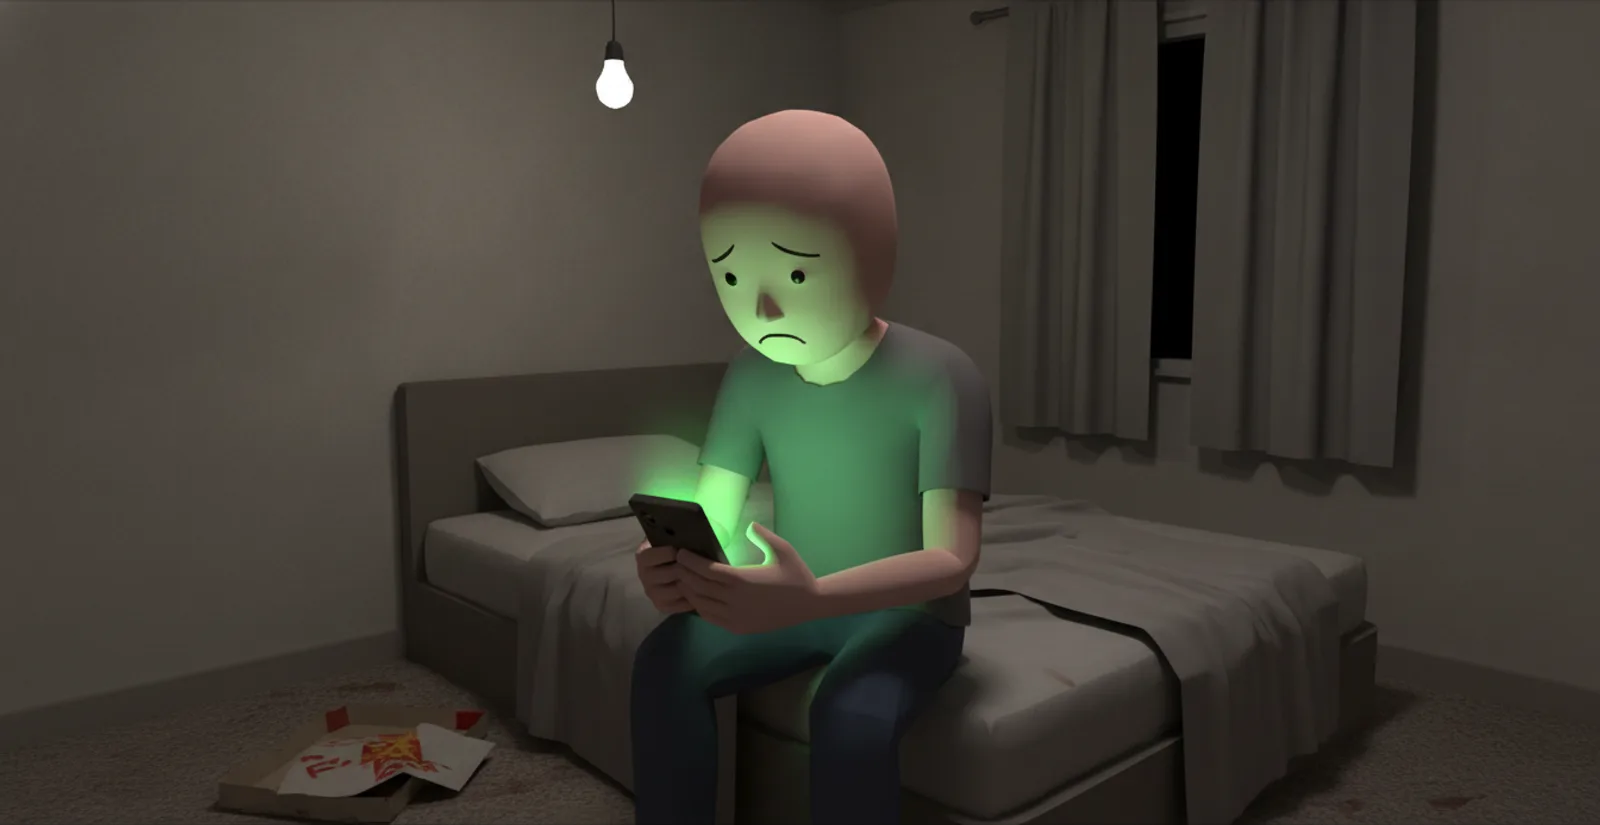
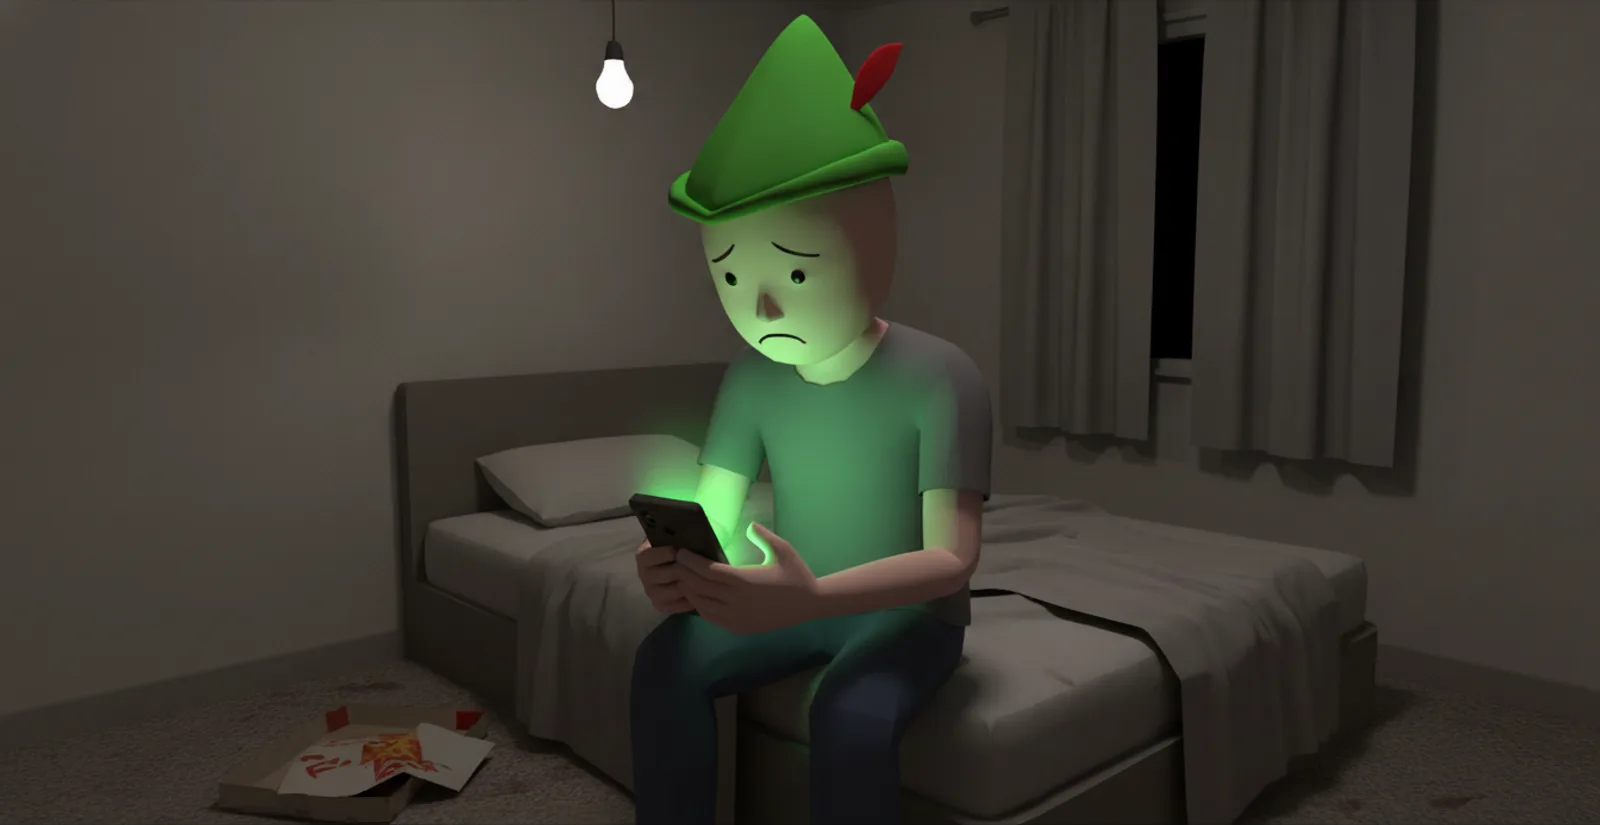
robin hood cap on every frame, sherwood tile, the app's confetti

Changed region(s): [[0.4062, 0.0, 0.5938, 0.2727]]

diff --git a/index.html b/index.html
@@ -38,6 +38,7 @@ button{font:inherit;color:inherit;background:none;border:0;cursor:pointer}
 .room .scan{position:absolute;inset:0;pointer-events:none;background:repeating-linear-gradient(rgba(0,0,0,.2) 0 1px,transparent 1px 3px);opacity:.45}
 .room .vig{position:absolute;inset:0;pointer-events:none;background:radial-gradient(ellipse at 45% 50%,transparent 45%,rgba(10,10,13,.85) 100%)}
 .room .red{position:absolute;inset:0;pointer-events:none;background:radial-gradient(ellipse at 50% 50%,transparent 40%,rgba(255,40,80,.55) 100%);opacity:calc(var(--pain) * .9)}
+.confetti{position:fixed;inset:0;z-index:44;pointer-events:none}
 .freeze{position:fixed;inset:0;z-index:40;pointer-events:none;background:rgba(10,10,13,.55);display:grid;place-items:center;opacity:0;transition:opacity .15s}
 .freeze.on{opacity:1}
 .freeze i{width:34px;height:34px;border:3px solid rgba(255,255,255,.2);border-top-color:var(--white);border-radius:50%;animation:spin .8s linear infinite}
@@ -123,6 +124,7 @@ button{font:inherit;color:inherit;background:none;border:0;cursor:pointer}
 
 .hist{display:grid;grid-template-columns:repeat(2,1fr);gap:8px;padding:6px 18px 18px}
 .hist .h{position:relative;overflow:hidden;border-radius:14px;border:1px solid var(--line);aspect-ratio:16/10;cursor:pointer;background:#000}
+.hist .h.wide{grid-column:1/-1;aspect-ratio:16/8}
 .hist .h img{width:100%;height:100%;object-fit:cover;transition:transform .6s ease}
 .hist .h:hover img{transform:scale(1.05)}
 .hist .h span{position:absolute;left:10px;right:10px;bottom:9px;font-size:11.5px;font-weight:500;line-height:1.3;text-shadow:0 1px 4px rgba(0,0,0,.9)}
@@ -208,6 +210,7 @@ button{font:inherit;color:inherit;background:none;border:0;cursor:pointer}
   <div class="glowG"></div><div class="glowR"></div><div class="scan"></div><div class="vig"></div><div class="red"></div>
 </div>
 <div class="freeze" id="freeze"><i></i></div>
+<canvas class="confetti" id="confetti"></canvas>
 <div class="toasts" id="toasts"></div>
 
 <div class="wrap">
@@ -215,8 +218,8 @@ button{font:inherit;color:inherit;background:none;border:0;cursor:pointer}
     <div class="brand"><img src="assets/avatar.webp" alt="" /><span data-name>Pink Wojak</span></div>
     <div class="mark">
       <h1 class="glitch" data-t="PINK WOJAK">PINK<br /><em>WOJAK</em></h1>
-      <p>Born on a phone screen in January 2021, same portfolio, new chain</p>
-      <div class="year"><i></i>Account open since 2021 · never closed</div>
+      <p>He wears the hat, the hat did not help, same portfolio since January 2021</p>
+      <div class="year"><i></i>Sherwood branch · account open since 2021</div>
     </div>
     <div class="foot">Robinhood Chain · Pons · every position red, one green</div>
   </aside>
@@ -254,6 +257,7 @@ button{font:inherit;color:inherit;background:none;border:0;cursor:pointer}
 
     <div class="sec">History <span>2021 → now</span></div>
     <div class="hist">
+      <div class="h wide" data-src="assets/s6.webp" data-cap="Sherwood, he took from the rich and gave to the poor, he was the poor"><img src="assets/s6.webp" alt="" /><small>SHERWOOD</small><span>Took from the rich, gave to the poor, he was the poor</span></div>
       <div class="h" data-src="assets/s2.webp" data-cap="January 2021, he bought the top from the kitchen"><img src="assets/s2.webp" alt="" /><small>JAN 2021</small><span>He bought the top from the kitchen</span></div>
       <div class="h" data-src="assets/s3.webp" data-cap="The buy button turned grey, the sell button stayed green"><img src="assets/s3.webp" alt="" /><small>JAN 28</small><span>The buy button turned grey</span></div>
       <div class="h" data-src="assets/s4.webp" data-cap="Sunrise, still holding, still pink"><img src="assets/s4.webp" alt="" /><small>EVERY MORNING</small><span>Still holding, still pink</span></div>
@@ -358,8 +362,14 @@ button{font:inherit;color:inherit;background:none;border:0;cursor:pointer}
   /* ---- sell ---- */
   var sellBtn = document.getElementById('sellAll'), rej = document.getElementById('rej'), rejN = 0;
   var sellLines = ['Your sell order could not be placed', 'Market is closed for you specifically', 'Sell button is thinking about it', 'Order rejected, try holding', 'Selling is temporarily disabled too'];
-  sellBtn.addEventListener('click', function(){ sellBtn.classList.remove('shake'); void sellBtn.offsetWidth; sellBtn.classList.add('shake'); rejN++; rej.textContent = rejN; extra = Math.min(.5, extra + .1); setPain(); toast('Order rejected', sellLines[rejN % sellLines.length]); freeze(600); glitchNow(); });
+  sellBtn.addEventListener('click', function(){ sellBtn.classList.remove('shake'); void sellBtn.offsetWidth; sellBtn.classList.add('shake'); rejN++; rej.textContent = rejN; extra = Math.min(.5, extra + .1); setPain(); toast('Order rejected', sellLines[rejN % sellLines.length]); freeze(600); glitchNow(); confetti(90); });
   document.querySelectorAll('.row2:not(.ours) .b').forEach(function(b){ b.addEventListener('click', function(){ toast('Buying temporarily disabled', 'This asset cannot be bought right now'); }); });
+
+  /* ---- confetti, the app's famous one ---- */
+  var cc = document.getElementById('confetti'), cg = cc.getContext('2d'), parts = [], raf = null;
+  function confetti(n){ var W = innerWidth, H = innerHeight; cc.width = W; cc.height = H; var r = app.getBoundingClientRect(), ox = r.left + r.width / 2, oy = Math.max(80, Math.min(H - 80, r.top + 220)); var cols = ['#00c805', '#ffffff', '#ff5fa8', '#7cf59a', '#ff5000']; for(var i = 0; i < n; i++) parts.push({ x: ox, y: oy, vx: (Math.random() - .5) * 18, vy: -Math.random() * 14 - 4, g: .35 + Math.random() * .2, w: 6 + Math.random() * 6, h: 8 + Math.random() * 8, a: Math.random() * Math.PI, va: (Math.random() - .5) * .3, c: cols[i % cols.length], life: 90 + Math.random() * 40 }); if(!raf) raf = requestAnimationFrame(step); }
+  function step(){ cg.clearRect(0, 0, cc.width, cc.height); parts = parts.filter(function(p){ return p.life > 0 && p.y < cc.height + 20; }); parts.forEach(function(p){ p.vy += p.g; p.vx *= .985; p.x += p.vx; p.y += p.vy; p.a += p.va; p.life--; cg.save(); cg.translate(p.x, p.y); cg.rotate(p.a); cg.globalAlpha = Math.min(1, p.life / 30); cg.fillStyle = p.c; cg.fillRect(-p.w / 2, -p.h / 2, p.w, p.h); cg.restore(); }); if(parts.length){ raf = requestAnimationFrame(step); } else { raf = null; cg.clearRect(0, 0, cc.width, cc.height); } }
+  setTimeout(function(){ confetti(140); toast('Congratulations', 'Your first loss on the new chain'); }, 3100);
 
   /* ---- toasts, freeze, glitch ---- */
   var toasts = document.getElementById('toasts');
